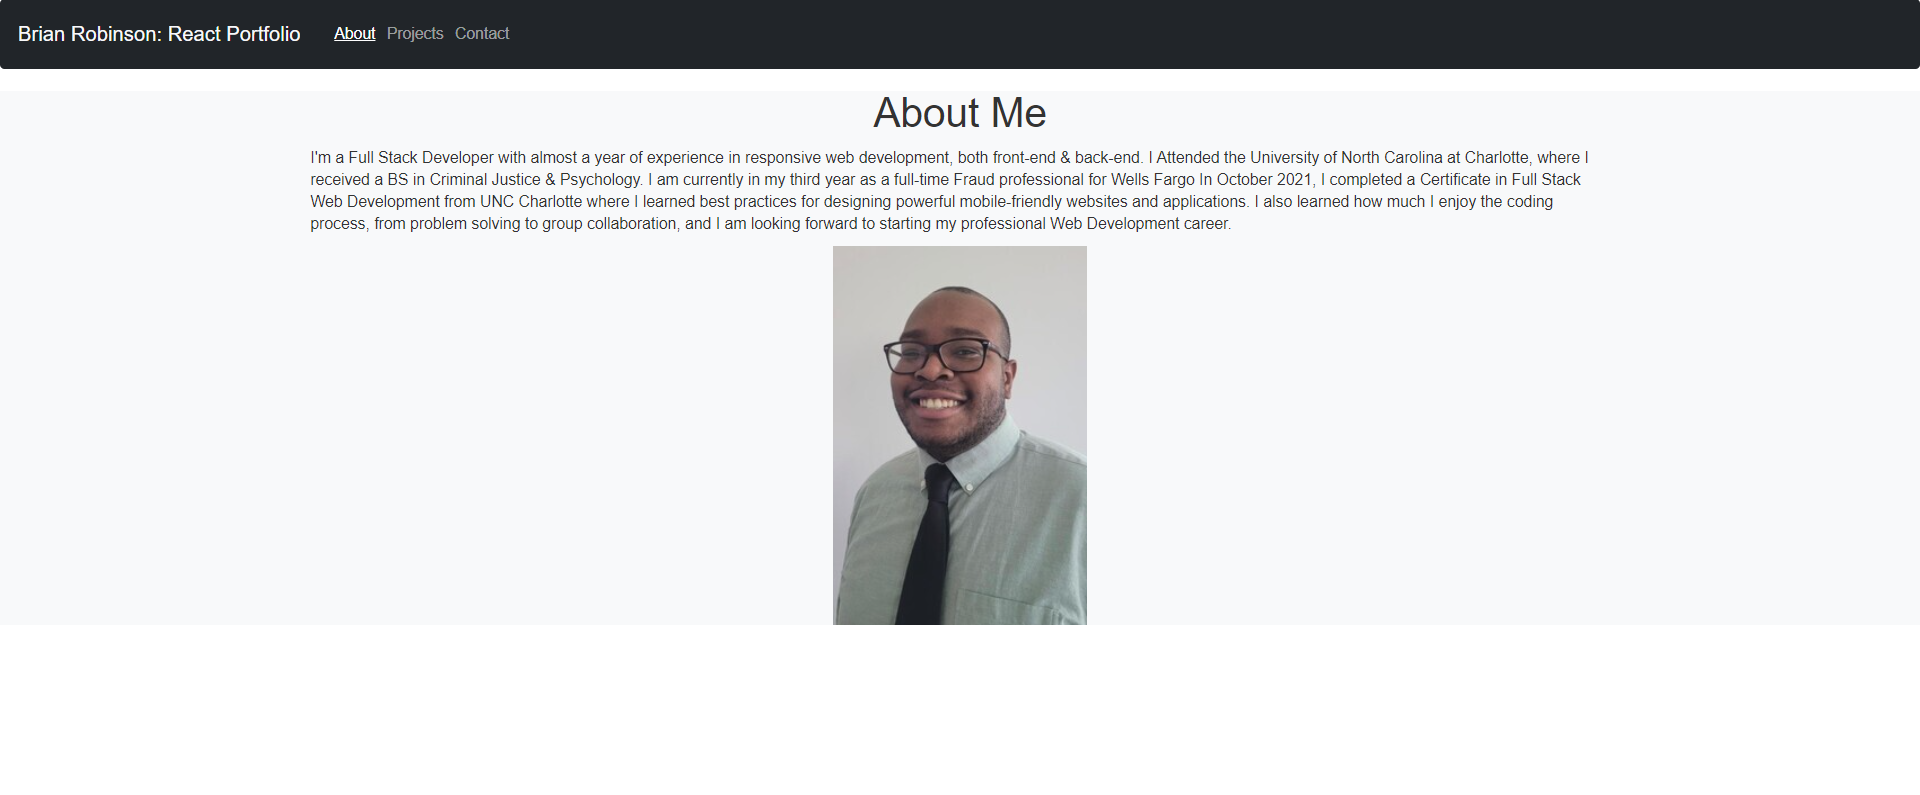
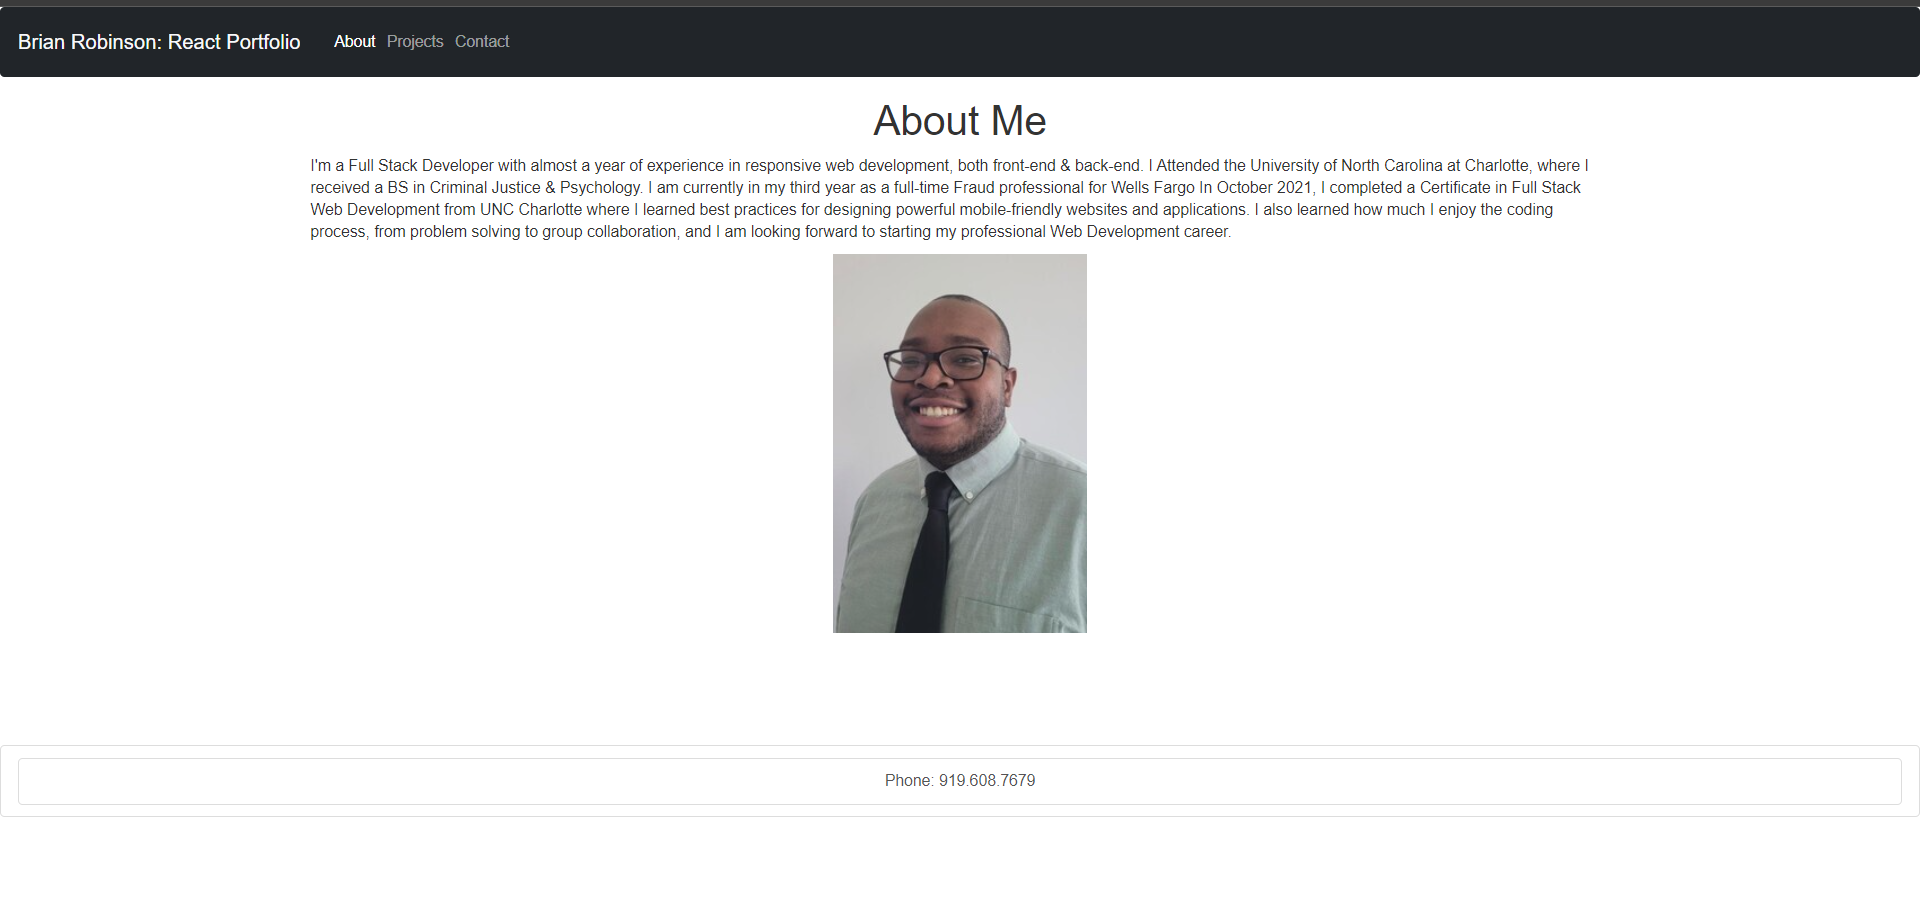
updates to project image styling. added pictures to readme

Changed region(s): [[0.1562, 0.1208, 0.8438, 0.7849], [0.0, 0.0, 1.0, 0.0604], [0.4688, 0.8453, 0.5312, 0.8755]]

diff --git a/src/pages/Homepage.js b/src/pages/Homepage.js
@@ -14,7 +14,7 @@ function Homepage() {
 In October 2021, I completed a Certificate in Full Stack Web Development from UNC Charlotte where I learned best practices for designing powerful mobile-friendly websites and applications. I also learned how much I enjoy the coding process, from problem solving to group collaboration, and I am looking forward to starting my professional Web Development career.
     </p>
     <div className="text-center">
-      <Image src="img/headshot1.jpg" fluid />
+      <Image src="img/headshot1.jpg"/>
     </div>
     </Row>
     </Container>

diff --git a/src/pages/Project.js b/src/pages/Project.js
@@ -16,7 +16,7 @@ function Project() {
           <Card key={project.id} className="card bg-dark">
             
             <Image
-              className= "w-75 rounded mx-auto d-block"
+              className= "w-50 rounded mx-auto d-block"
               variant = "card-img-top"
               src={project.image} 
               alt={project.name + " screenshot"}
